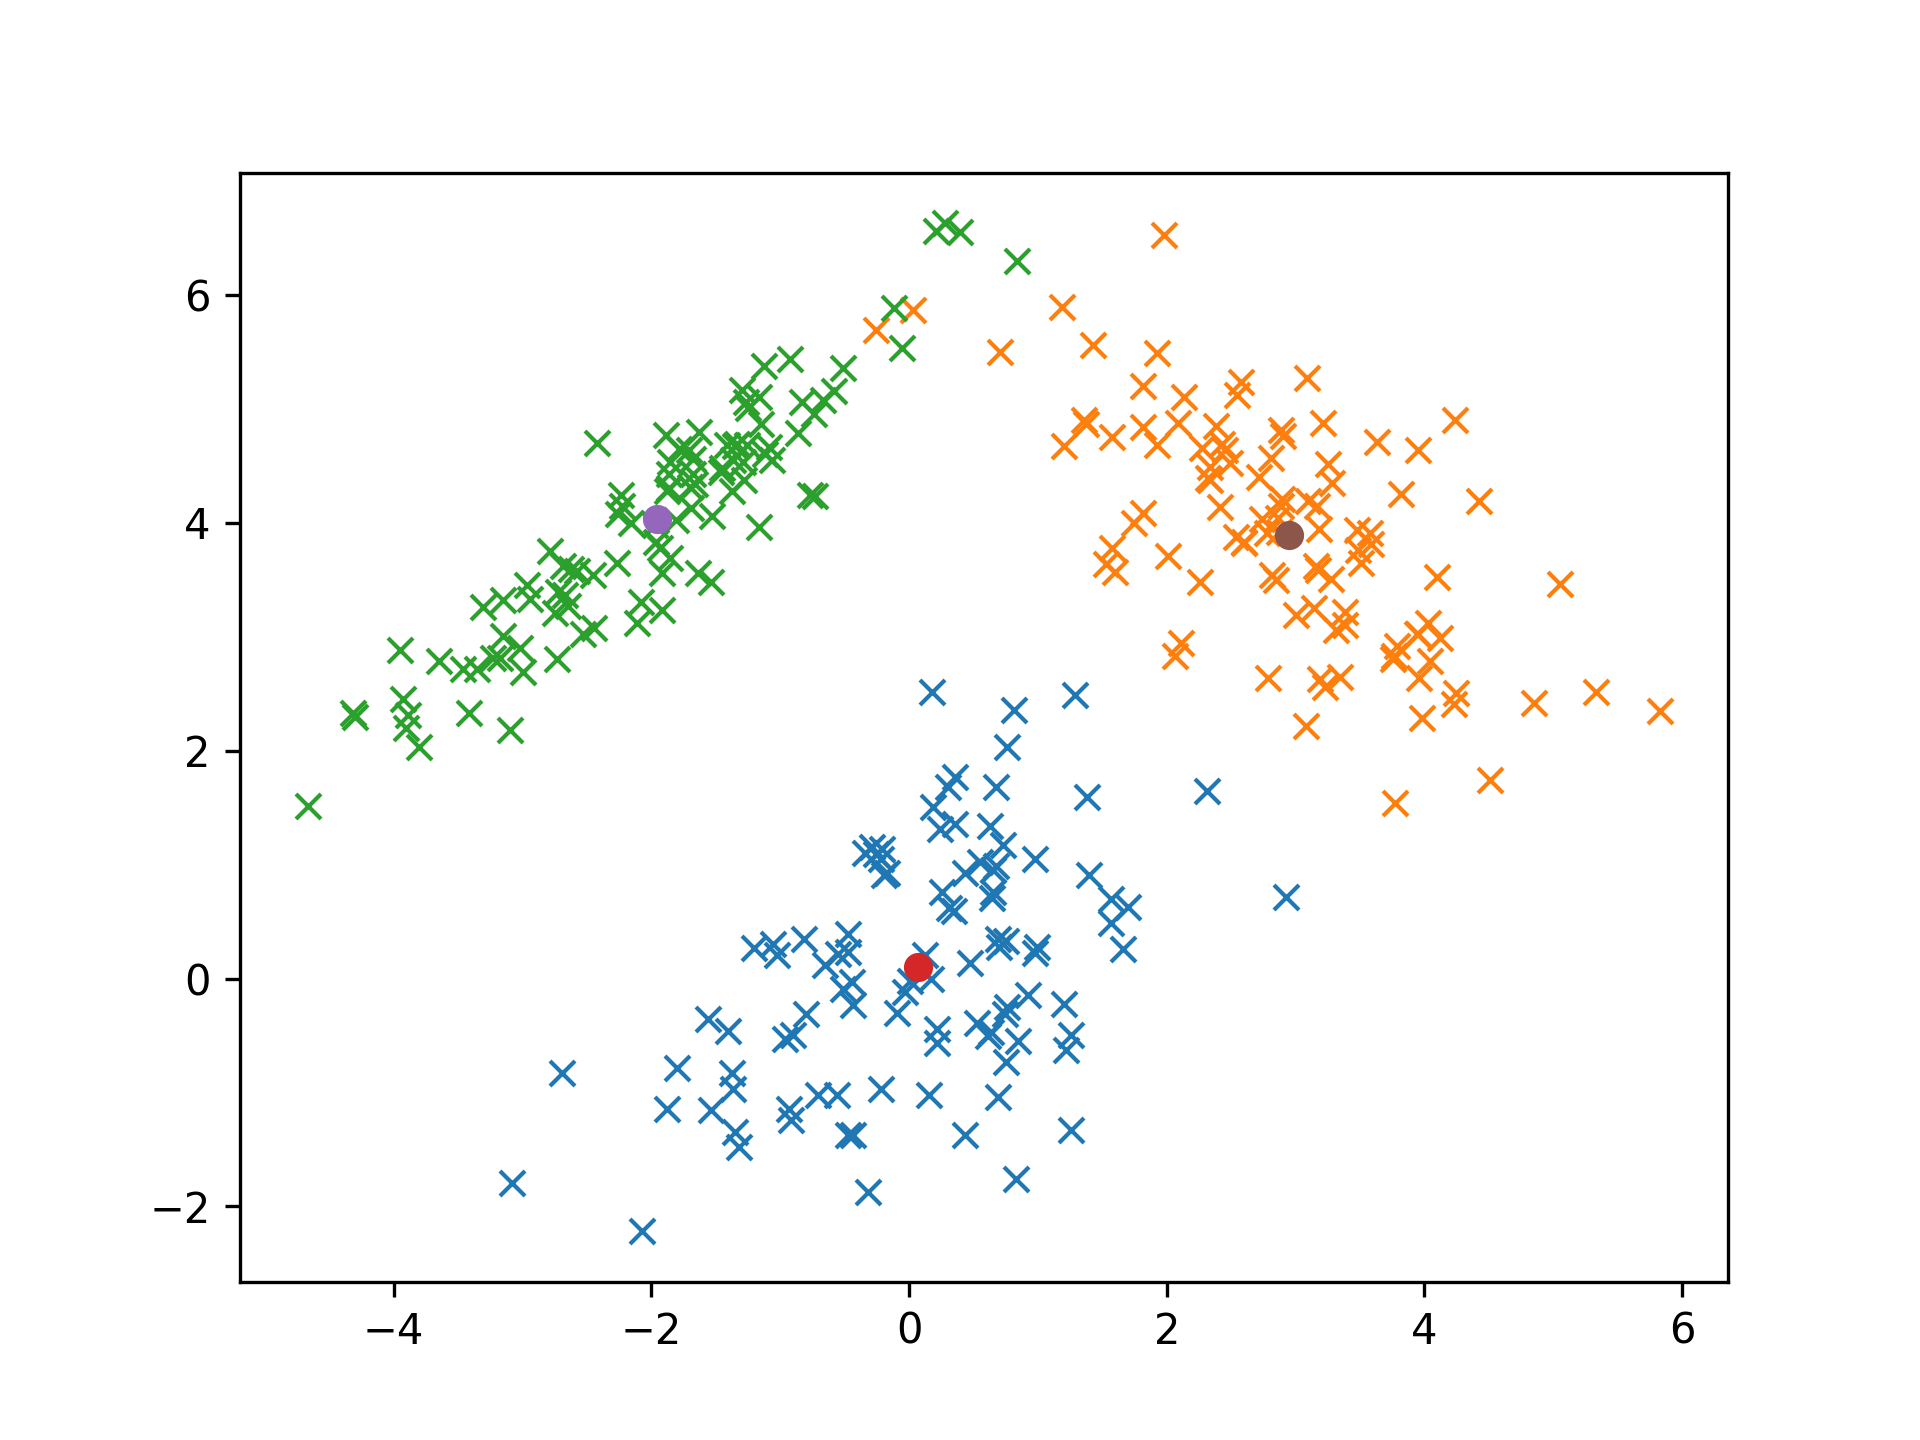
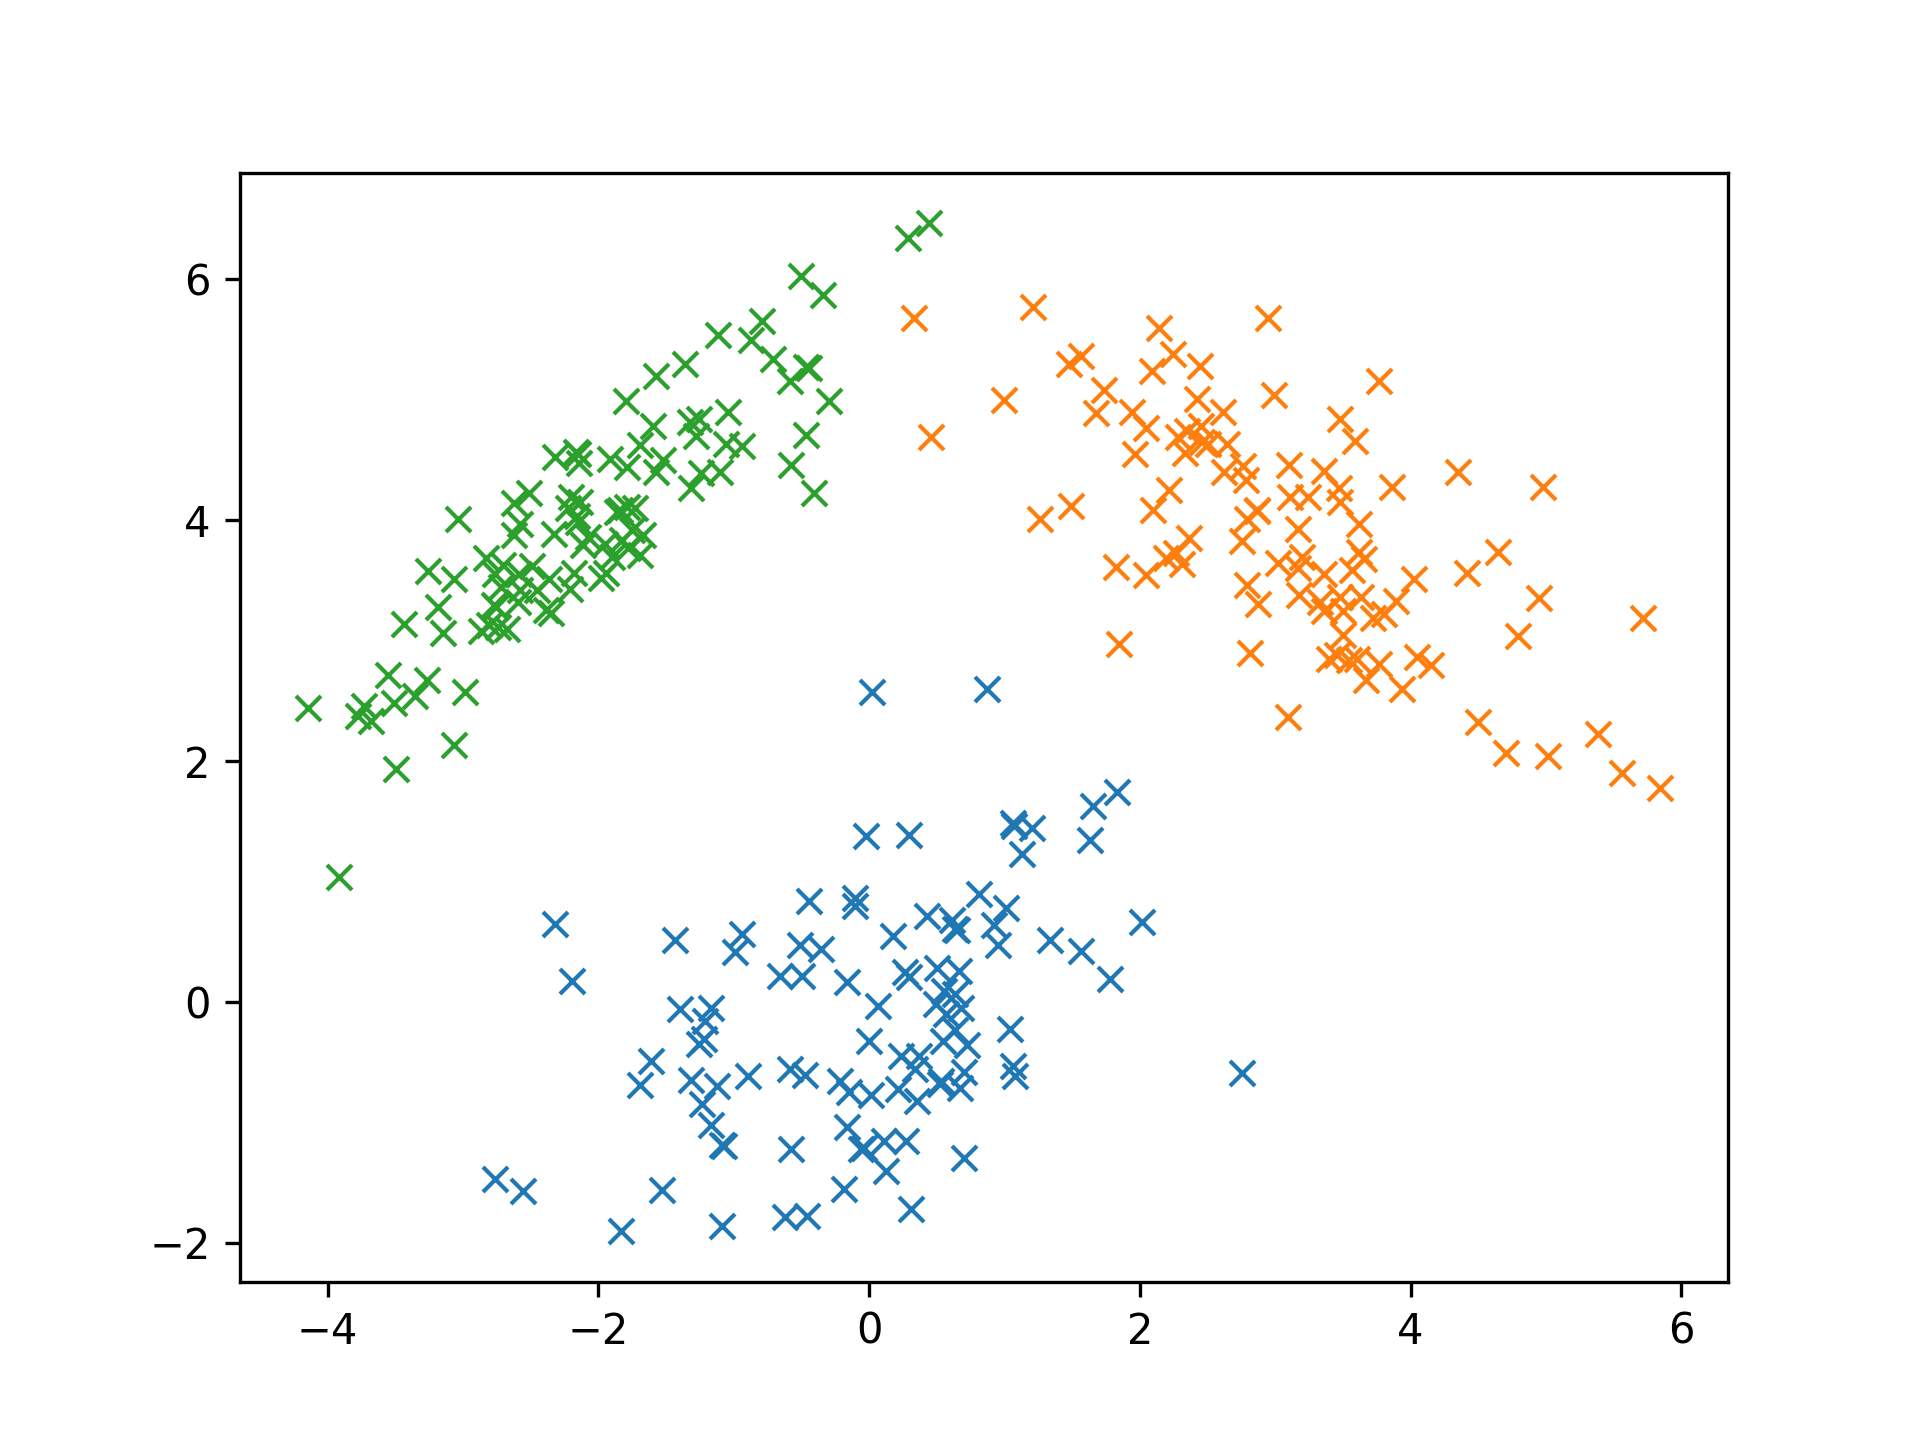
Check in.

diff --git a/exercise.06/main.py b/exercise.06/main.py
@@ -20,21 +20,18 @@ def f(x, y, mean: np.array, cov: np.array):
 
 
 def show_gaussian(plt, means: np.array, covs: np.array):
-    N = 60
-    X = np.linspace(-10, 10, N)
-    Y = np.linspace(-10, 10, N)
-    X, Y = np.meshgrid(X, Y)
+    grid_x, gird_y = np.meshgrid(np.linspace(-3, 7, 60), np.linspace(-5, 6, 60))
 
-    heatmap = np.zeros((len(X), len(Y)))
+    heatmap = np.zeros((len(grid_x), len(gird_y)))
     for c in range(len(means)):
         mean = means[c]
         cov = covs[c]
 
-        heatmap += f(X, Y, mean, cov)
+        heatmap += f(grid_x, gird_y, mean, cov)
 
         plt.plot(mean[0], mean[1], "x")
 
-    plt.contour(X, Y, heatmap)
+    plt.contour(grid_x, gird_y, heatmap)
 
 
 def normal_distribution(x: np.array, mean: np.array, cov: np.array):
@@ -151,48 +148,57 @@ def em(k: int, training_data: np.array):
     return mean_c, cov_c
 
 
+def generate_training_data() -> (np.array, plt.axes, plt.figure, plt.axes):
+    mean1 = (0, 0)
+    cov1 = [[1.0, 0.5],
+            [0.5, 1.0]]
+    data1 = np.random.multivariate_normal(mean1, cov1, 100)
+
+    mean2 = (3, 4)
+    cov2 = [[1.0, -0.7],
+            [-0.7, 1.0]]
+    data2 = np.random.multivariate_normal(mean2, cov2, 100)
+
+    mean3 = (-2, 4)
+    cov3 = [[1.0, 0.9],
+            [0.9, 1.0]]
+    data3 = np.random.multivariate_normal(mean3, cov3, 100)
+
+    training_data = np.concatenate((data1, data2, data3))
+
+    fig, ax = plt.subplots()
+    ax.plot(data1[:, 0], data1[:, 1], "x")
+    ax.plot(data2[:, 0], data2[:, 1], "x")
+    ax.plot(data3[:, 0], data3[:, 1], "x")
+
+    return training_data, fig, ax
+
+
+def run_k_mean():
+    data, fig, ax = generate_training_data()
+
+    k = 3
+    centroids = k_mean(k, data)
+
+    for centroid in centroids:
+        ax.plot(centroid[0], centroid[1], "o")
+
+    fig.savefig("ml.exercise.06.k_mean.png", dpi=300)
+
+
+def run_gauss_em():
+    data, fig, ax = generate_training_data()
+
+    k = 3
+    centroids, covs = em(k, data)
+    fig.savefig("ml.exercise.06.em.points.png", dpi=300)
+
+    show_gaussian(ax, centroids, covs)
+    fig.savefig(f"ml.exercise.06.em.gaussian.png", dpi=300)
+
+
 random.seed(19980528)
+run_k_mean()
 
-mean1 = (0, 0)
-cov1 = [[1.0, 0.5],
-        [0.5, 1.0]]
-data1 = np.random.multivariate_normal(mean1, cov1, 100)
-
-mean2 = (3, 4)
-cov2 = [[1.0, -0.7],
-        [-0.7, 1.0]]
-data2 = np.random.multivariate_normal(mean2, cov2, 100)
-
-mean3 = (-2, 4)
-cov3 = [[1.0, 0.9],
-        [0.9, 1.0]]
-data3 = np.random.multivariate_normal(mean3, cov3, 100)
-
-# print("data1", data1)
-
-training_data = np.concatenate((data1, data2, data3))
-
-plt.figure(0)
-plt.plot(data1[:, 0], data1[:, 1], "x")
-plt.plot(data2[:, 0], data2[:, 1], 'x')
-plt.plot(data3[:, 0], data3[:, 1], 'x')
-
-# centroids = k_mean(3, training_data)
-centroids, covs = em(3, training_data)
-
-for inx in range(len(centroids)):
-    centroid = centroids[inx]
-    print(f"centroid[{inx}]")
-    print(centroid)
-
-    cov = covs[inx]
-    print(f"covs[{inx}]")
-    print(cov)
-
-    plt.plot(centroid[0], centroid[1], "o")
-
-# plt.savefig("ml.exercise.06.k_mean.png", dpi=300)
-plt.savefig("ml.exercise.06.em.points.png", dpi=300)
-
-show_gaussian(plt, centroids, covs)
-plt.savefig(f"ml.exercise.06.em.gaussian.png", dpi=300)
+random.seed(19980528)
+run_gauss_em()
